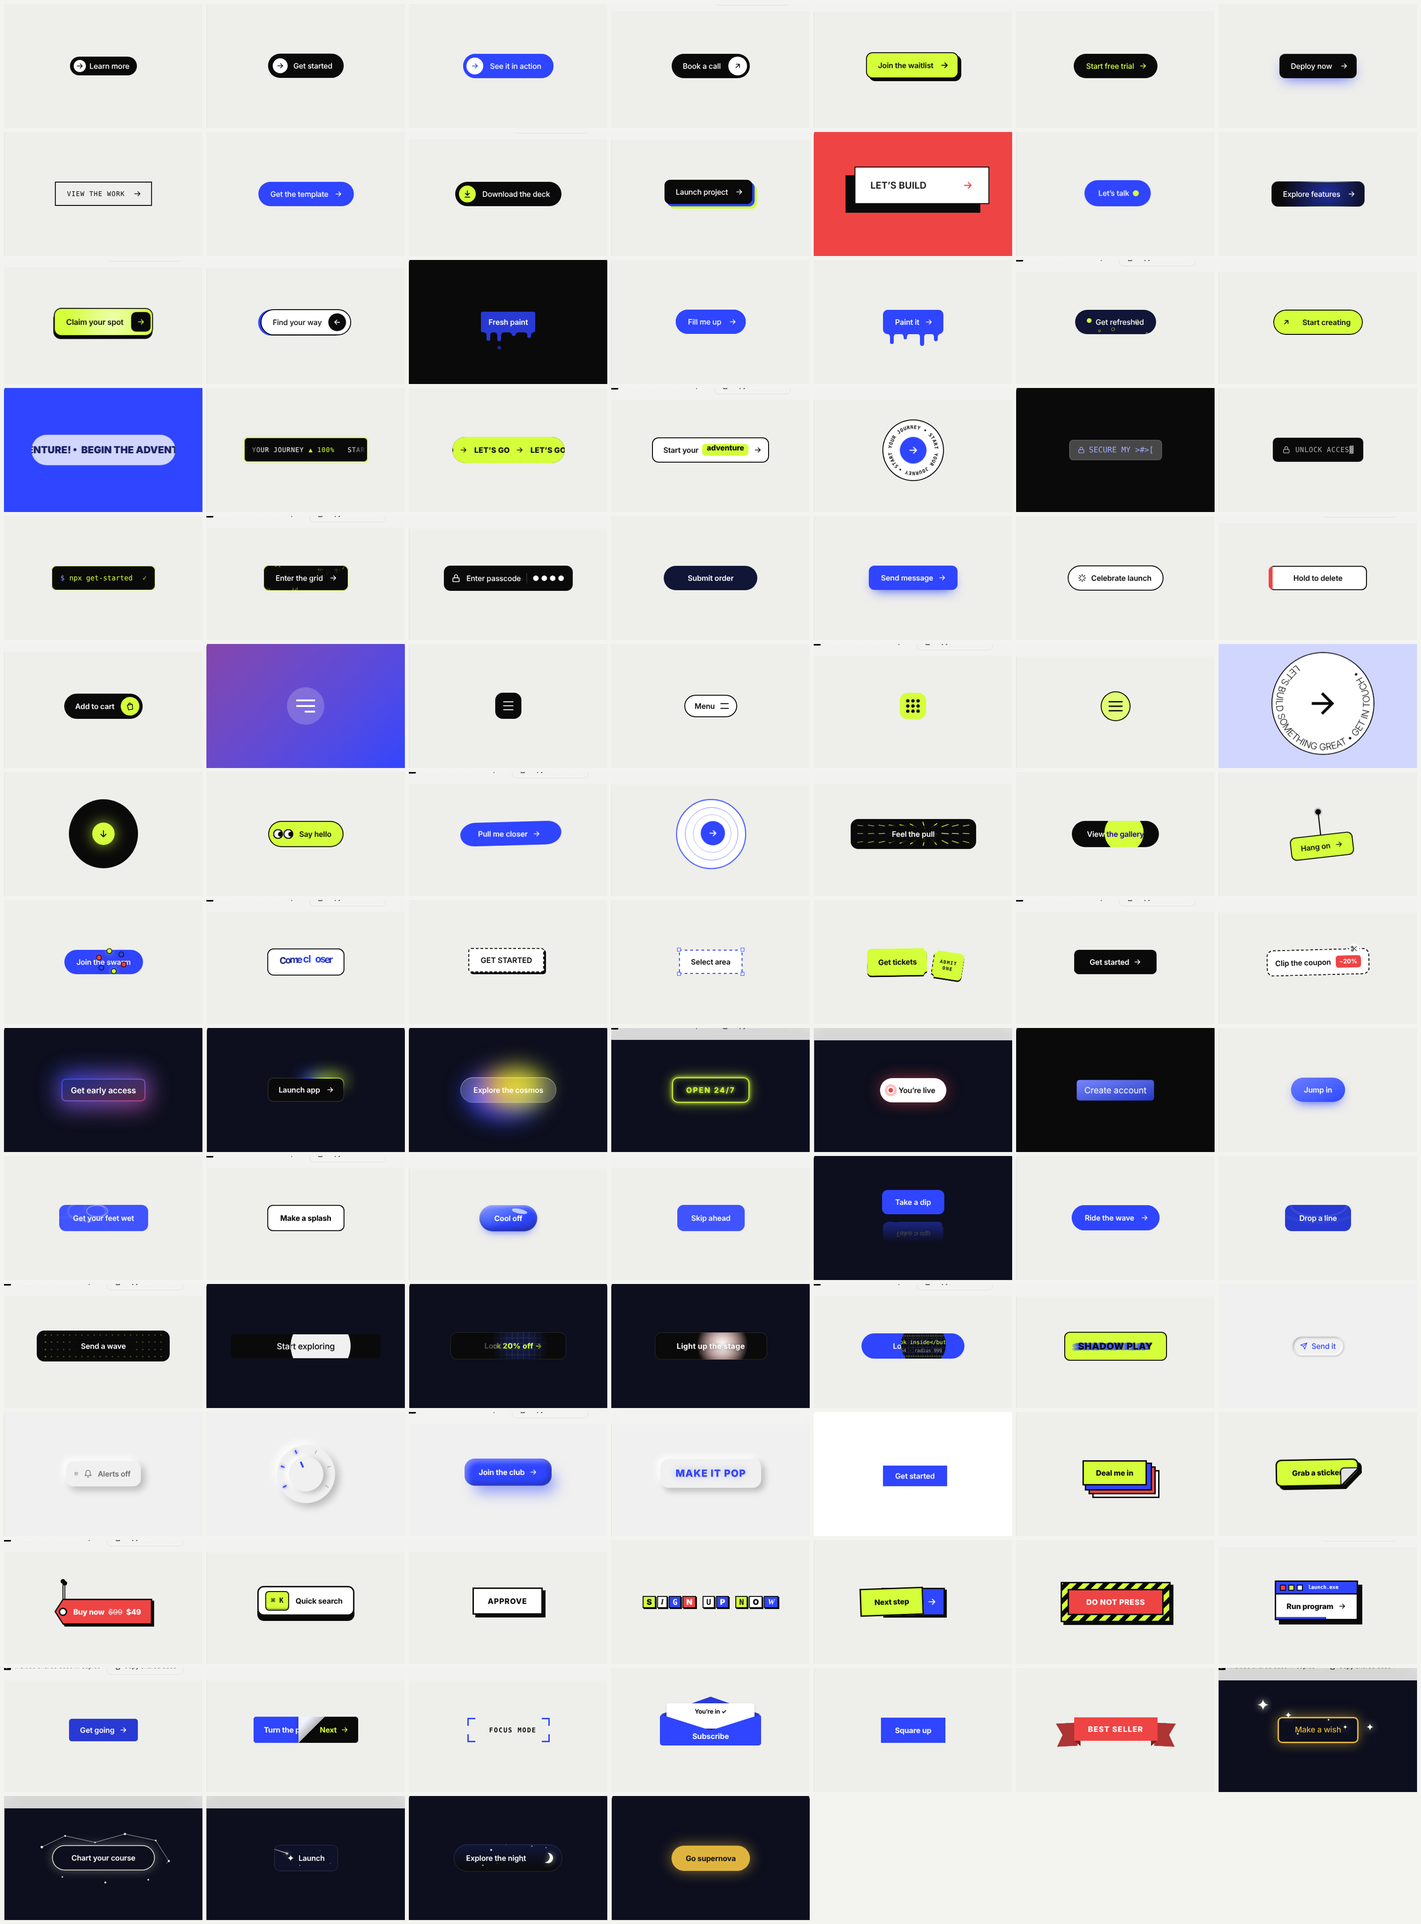
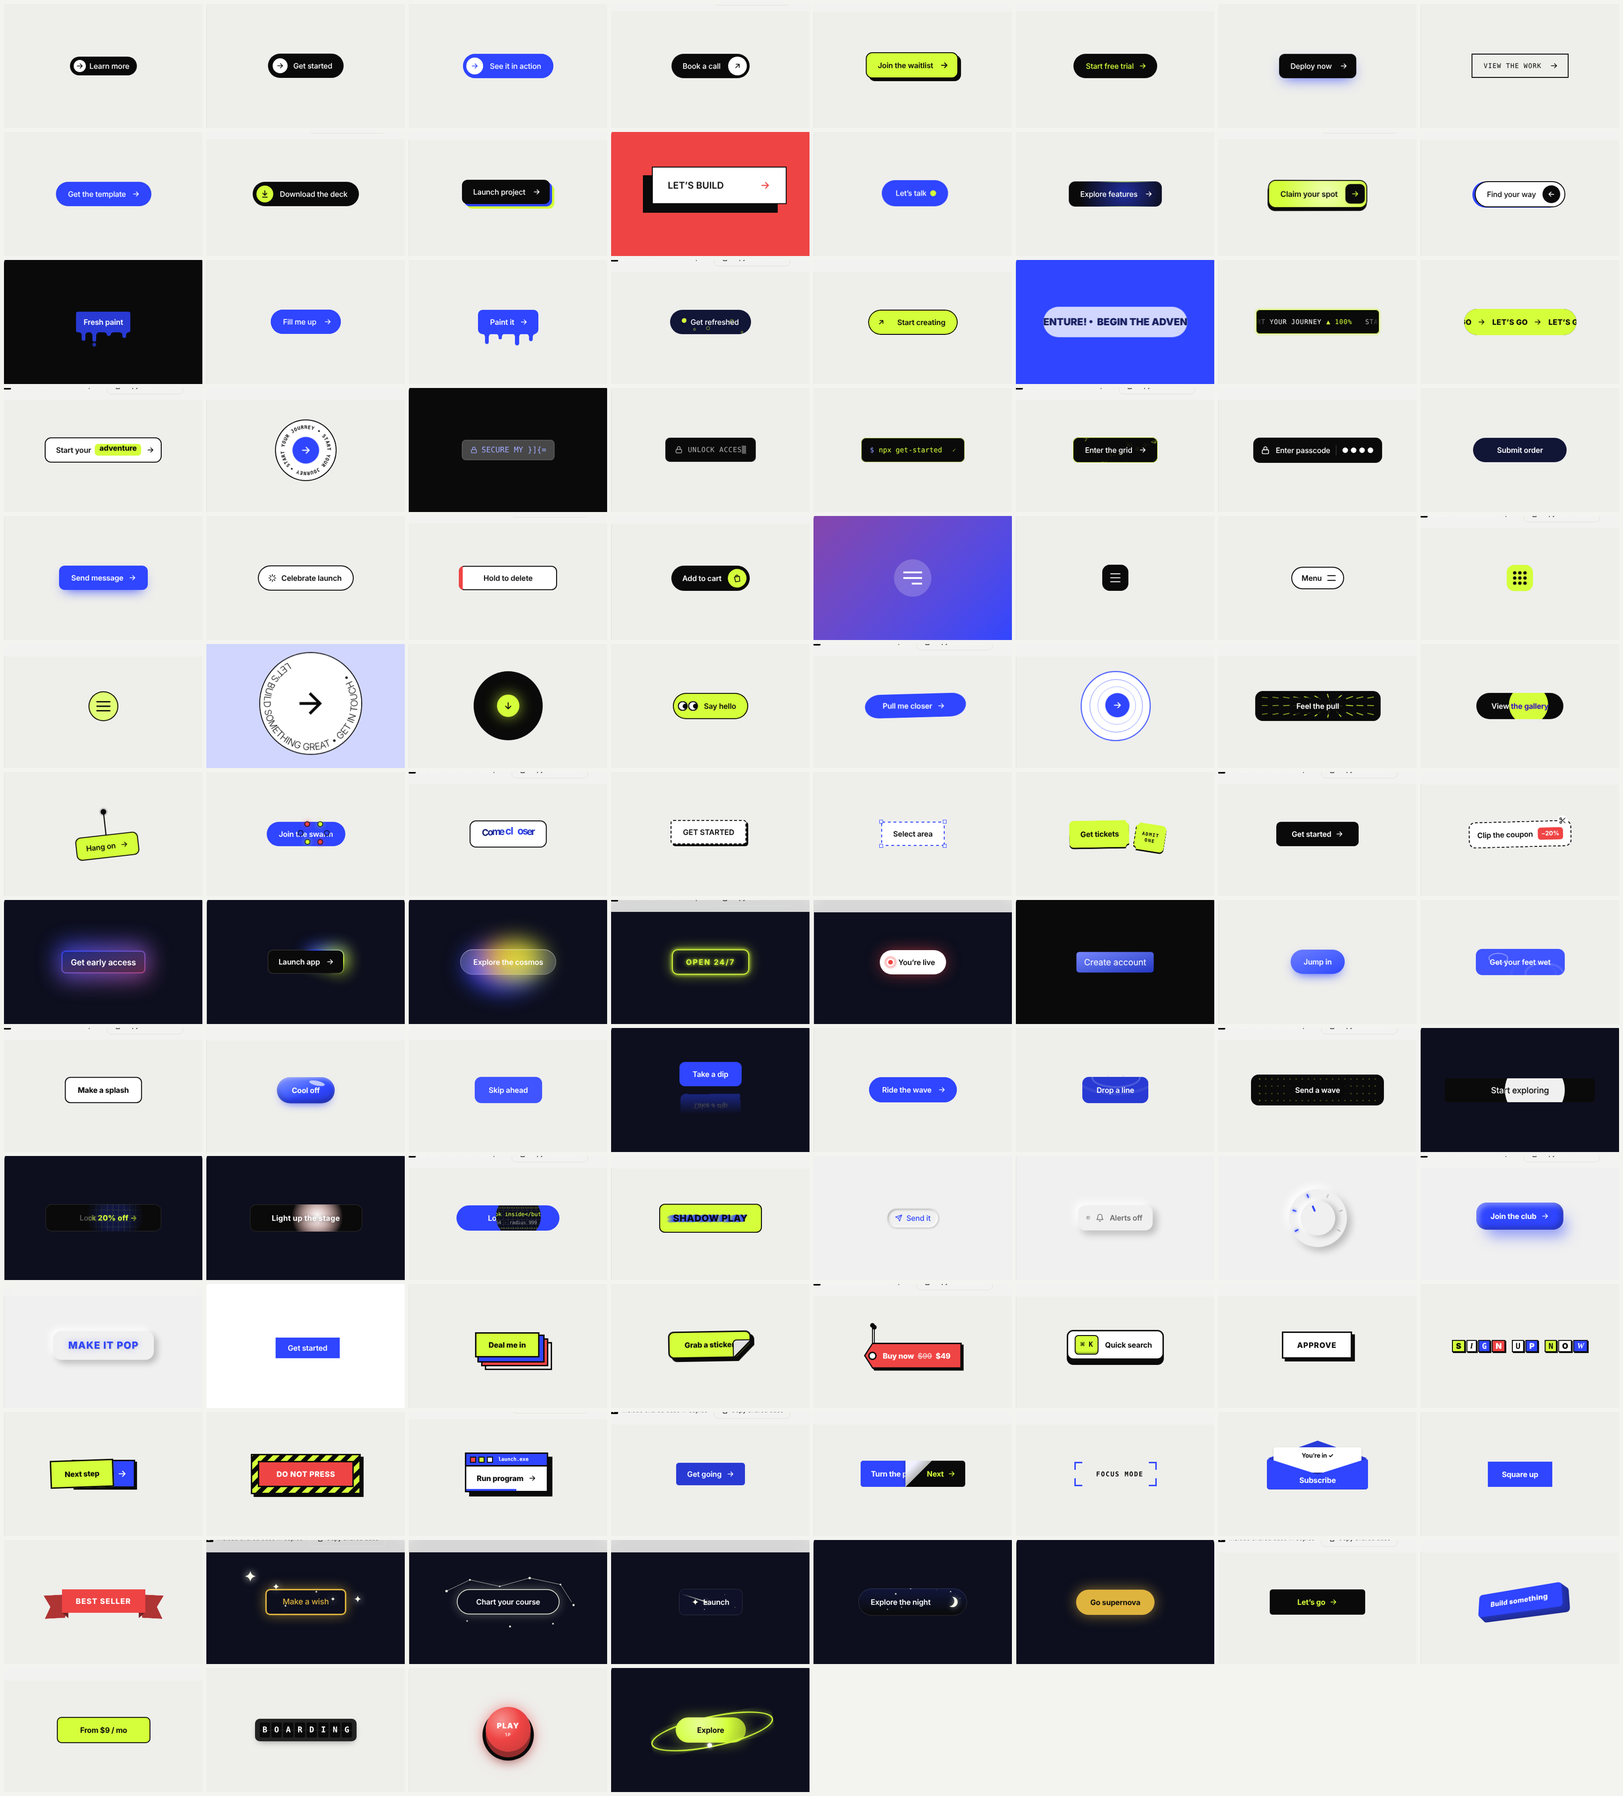
Add 3D section: six buttons with real depth
Cube Roll, Extruded Block, Card Flip, Departure Board, Arcade and
Ringed Planet. Also renames two inner class names that clashed with
the library page's own styles. The library is now 108 buttons in 17
sections; README and images updated to match.

Claude-Session: https://claude.ai/code/session_0119U1nsTLnGppz8JXkYkz5n

diff --git a/index.html b/index.html
@@ -228,7 +228,21 @@ const GROUPS = [
   { id:'brutal', title:'Neubrutalism', note:'Thick outlines, hard shadows and loud flat color: a stacked deck, a peeling sticker, a swinging price tag, a keycap, a rubber stamp, a ransom note and a button that begs you not to press it.' },
   { id:'fold', title:'Folds & Corners', note:'Paper-inspired buttons: dog-eared corners, a page that turns, a camera viewfinder, an envelope that opens, corners that fill in and a folded ribbon. Pure CSS.' },
   { id:'stars', title:'Stars & Sparkle', note:'Celestial buttons: stars that burst out on hover, a constellation that draws itself, shooting stars, a twinkling night sky and a click that goes supernova. Made for dark backgrounds.' },
+  { id:'3d', title:'3D', note:'Real depth with CSS 3D transforms: a rolling cube, an extruded block, a flipping card, a split-flap departure board, an arcade button and a ringed planet. Pure CSS.' },
 ];
+
+function boardHTML(from, to) {
+  const tiles = [...from].map((c, i) => {
+    const a = c === ' ' ? '&nbsp;' : c;
+    const b = to[i] === ' ' ? '&nbsp;' : to[i];
+    return `    <span class="tile" style="--d: ${i * 45}ms"><span class="cube"><span class="a">${a}</span><span class="b">${b}</span></span></span>`;
+  }).join('\n');
+  return `<button type="button" class="cta cta-board" aria-label="${from.charAt(0) + from.slice(1).toLowerCase()}">
+  <span class="row" aria-hidden="true">
+${tiles}
+  </span>
+</button>`;
+}
 
 const SPARKLE = `<svg viewBox="0 0 24 24" fill="currentColor" aria-hidden="true"><path d="M12 0C12.6 6.6 17.4 11.4 24 12C17.4 12.6 12.6 17.4 12 24C11.4 17.4 6.6 12.6 0 12C6.6 11.4 11.4 6.6 12 0Z"></path></svg>`;
 
@@ -981,7 +995,7 @@ function setupHold(el) {
 function setupCart(el) {
   const label = el.querySelector('.lbl');
   const bag = el.querySelector('.bag');
-  const count = el.querySelector('.count');
+  const count = el.querySelector('.qty');
   let n = 0;
   const land = () => {
     n++;
@@ -2228,14 +2242,14 @@ const BUTTONS = [
 .cta-cart .bag { position: relative; width: 40px; height: 40px; border-radius: 50%; background: var(--cta-pop); color: var(--cta-ink);
   display: grid; place-items: center; transition: transform .4s var(--spring); }
 .cta-cart .bag svg { width: 20px; height: 20px; }
-.cta-cart .count { position: absolute; top: -5px; right: -5px; min-width: 18px; height: 18px; padding: 0 4px; box-sizing: border-box;
+.cta-cart .qty { position: absolute; top: -5px; right: -5px; min-width: 18px; height: 18px; padding: 0 4px; box-sizing: border-box;
   border-radius: 999px; background: var(--cta-accent); color: var(--cta-paper); font-size: 11px; font-weight: 700; line-height: 18px; text-align: center;
   font-variant-numeric: tabular-nums; transform: scale(0); transition: transform .35s var(--spring); }
 .cta-cart:is(:hover, :focus-visible, .is-active) .bag { transform: rotate(-10deg); }
 .cta-cart:active { transform: scale(.97); }
-.cta-cart.has .count { transform: scale(1); }
+.cta-cart.has .qty { transform: scale(1); }
 .cta-cart.bump .bag { animation: cta-cart-bump .5s var(--spring); }
-.cta-cart.bump .count { animation: cta-cart-tick .4s var(--spring); }
+.cta-cart.bump .qty { animation: cta-cart-tick .4s var(--spring); }
 .cta-cart .fly { position: absolute; left: var(--sx); top: 50%; width: 12px; height: 12px; margin: -6px 0 0 -6px; pointer-events: none;
   animation: cta-cart-x .55s linear forwards; }
 .cta-cart .fly i { display: block; width: 100%; height: 100%; border-radius: 50%; background: var(--cta-pop); animation: cta-cart-y .55s forwards; }
@@ -2249,7 +2263,7 @@ const BUTTONS = [
 @keyframes cta-cart-tick { 40% { transform: scale(1.4); } }`,
   html:`<button type="button" class="cta cta-cart" aria-label="Add to cart">
   <span class="lbl" aria-hidden="true">Add to cart</span>
-  <span class="bag" aria-hidden="true">${BAG}<span class="count">0</span></span>
+  <span class="bag" aria-hidden="true">${BAG}<span class="qty">0</span></span>
 </button>`
 },
 
@@ -3473,6 +3487,109 @@ const BUTTONS = [
   100% { transform: translate(calc(-50% + var(--dx)), calc(-50% + var(--dy))) scale(1) rotate(var(--r)); opacity: 0; }
 }`,
   html:`<button type="button" class="cta cta-nova">Go supernova</button>`
+},
+
+/* ---------------- 3D family ---------------- */
+{
+  group:'3d', no:'102', name:'Cube Roll', cls:'cta-cube',
+  note:'The button is the front face of a cube. Hover rolls it forward to bring the top face, with the next step on it, into view.',
+  css:`.cta-cube { width: 204px; height: 54px; padding: 0; background: transparent; perspective: 600px; font-weight: 700; transition: transform .15s var(--out); }
+.cta-cube .cube { position: absolute; inset: 0; transform-style: preserve-3d; transform: translateZ(-27px) rotateX(0deg);
+  transition: transform .6s cubic-bezier(.3, 1.35, .5, 1); }
+.cta-cube .f { position: absolute; inset: 0; display: flex; align-items: center; justify-content: center; gap: 8px; border-radius: 6px; backface-visibility: hidden; }
+.cta-cube .front { background: var(--cta-accent); color: var(--cta-paper); transform: translateZ(27px); }
+.cta-cube .top { background: var(--cta-ink); color: var(--cta-pop); transform: rotateX(90deg) translateZ(27px); }
+.cta-cube .top svg { width: 18px; height: 18px; }
+.cta-cube:is(:hover, :focus-visible, .is-active) .cube { transform: translateZ(-27px) rotateX(-90deg); }
+.cta-cube:active { transform: scale(.96); }`,
+  html:`<button type="button" class="cta cta-cube" aria-label="Get started">
+  <span class="cube" aria-hidden="true"><span class="f front">Get started</span><span class="f top"><span>Let’s go</span>${ARROW}</span></span>
+</button>`
+},
+{
+  group:'3d', no:'103', name:'Extruded Block', cls:'cta-extrude',
+  note:'A thick block tilted in space. Hover lifts it and deepens the extrusion; pressing squashes it nearly flat.',
+  css:`.cta-extrude { height: 54px; padding: 0 30px; border-radius: 8px; background: var(--cta-accent); color: var(--cta-paper); font-weight: 800; letter-spacing: .02em;
+  transform: perspective(600px) rotateX(18deg) rotateY(-16deg);
+  box-shadow: 1px 1px 0 color-mix(in srgb, var(--cta-accent) 68%, var(--cta-ink)), 2px 2px 0 color-mix(in srgb, var(--cta-accent) 66%, var(--cta-ink)), 3px 3px 0 color-mix(in srgb, var(--cta-accent) 64%, var(--cta-ink)), 4px 4px 0 color-mix(in srgb, var(--cta-accent) 62%, var(--cta-ink)), 5px 5px 0 color-mix(in srgb, var(--cta-accent) 60%, var(--cta-ink)), 6px 6px 0 color-mix(in srgb, var(--cta-accent) 58%, var(--cta-ink)), 7px 7px 0 color-mix(in srgb, var(--cta-accent) 56%, var(--cta-ink)), 8px 8px 0 color-mix(in srgb, var(--cta-accent) 54%, var(--cta-ink)), 9px 9px 0 color-mix(in srgb, var(--cta-accent) 52%, var(--cta-ink)), 10px 10px 0 color-mix(in srgb, var(--cta-accent) 50%, var(--cta-ink));
+  transition: transform .35s var(--spring), box-shadow .35s var(--out); }
+.cta-extrude:is(:hover, :focus-visible, .is-active) { transform: perspective(600px) rotateX(22deg) rotateY(-22deg) translate(-4px, -4px);
+  box-shadow: 1px 1px 0 color-mix(in srgb, var(--cta-accent) 69%, var(--cta-ink)), 2px 2px 0 color-mix(in srgb, var(--cta-accent) 68%, var(--cta-ink)), 3px 3px 0 color-mix(in srgb, var(--cta-accent) 67%, var(--cta-ink)), 4px 4px 0 color-mix(in srgb, var(--cta-accent) 66%, var(--cta-ink)), 5px 5px 0 color-mix(in srgb, var(--cta-accent) 65%, var(--cta-ink)), 6px 6px 0 color-mix(in srgb, var(--cta-accent) 64%, var(--cta-ink)), 7px 7px 0 color-mix(in srgb, var(--cta-accent) 63%, var(--cta-ink)), 8px 8px 0 color-mix(in srgb, var(--cta-accent) 62%, var(--cta-ink)), 9px 9px 0 color-mix(in srgb, var(--cta-accent) 61%, var(--cta-ink)), 10px 10px 0 color-mix(in srgb, var(--cta-accent) 60%, var(--cta-ink)), 11px 11px 0 color-mix(in srgb, var(--cta-accent) 59%, var(--cta-ink)), 12px 12px 0 color-mix(in srgb, var(--cta-accent) 58%, var(--cta-ink)), 13px 13px 0 color-mix(in srgb, var(--cta-accent) 57%, var(--cta-ink)), 14px 14px 0 color-mix(in srgb, var(--cta-accent) 56%, var(--cta-ink)); }
+.cta-extrude:active { transform: perspective(600px) rotateX(18deg) rotateY(-16deg) translate(8px, 8px); transition-duration: .1s;
+  box-shadow: 1px 1px 0 color-mix(in srgb, var(--cta-accent) 66%, var(--cta-ink)), 2px 2px 0 color-mix(in srgb, var(--cta-accent) 62%, var(--cta-ink)); }`,
+  html:`<button type="button" class="cta cta-extrude">Build something</button>`
+},
+{
+  group:'3d', no:'104', name:'Card Flip', cls:'cta-flip',
+  note:'A two-sided card. Hover flips it over in 3D to show what’s printed on the back.',
+  css:`.cta-flip { width: 200px; height: 56px; padding: 0; background: transparent; perspective: 700px; font-weight: 700; transition: transform .15s var(--out); }
+.cta-flip .flipper { position: absolute; inset: 0; }
+.cta-flip .side { position: absolute; inset: 0; display: flex; align-items: center; justify-content: center; border-radius: 10px; border: 2px solid var(--cta-ink); }
+.cta-flip .a { background: var(--cta-paper); color: var(--cta-ink); transform: rotateY(0deg); transition: transform .28s ease-out .3s; }
+.cta-flip .b { background: var(--cta-pop); color: var(--cta-ink); transform: rotateY(-90deg); transition: transform .28s ease-in; }
+.cta-flip:is(:hover, :focus-visible, .is-active) .a { transform: rotateY(90deg); transition: transform .28s ease-in; }
+.cta-flip:is(:hover, :focus-visible, .is-active) .b { transform: rotateY(0deg); transition: transform .45s cubic-bezier(.3, 1.4, .5, 1) .28s; }
+.cta-flip:active { transform: scale(.96); }`,
+  html:`<button type="button" class="cta cta-flip" aria-label="See pricing, from $9 a month">
+  <span class="flipper" aria-hidden="true"><span class="side a">See pricing</span><span class="side b">From $9 / mo</span></span>
+</button>`
+},
+{
+  group:'3d', no:'105', name:'Departure Board', cls:'cta-board',
+  note:'A split-flap departure board. Hover flips every tile in sequence, changing BOOK NOW to BOARDING.',
+  css:`.cta-board { padding: 8px 10px; border-radius: 10px; background: color-mix(in srgb, var(--cta-ink) 90%, var(--cta-paper)); transition: transform .15s var(--out);
+  box-shadow: 0 6px 16px -8px color-mix(in srgb, var(--cta-ink) 60%, transparent); }
+.cta-board .row { display: flex; gap: 3px; }
+.cta-board .tile { position: relative; width: 22px; height: 32px; perspective: 160px; }
+.cta-board .cube { position: absolute; inset: 0; transform-style: preserve-3d; transform: translateZ(-16px); transition: transform .5s cubic-bezier(.4, 1.4, .6, 1) var(--d); }
+.cta-board .a, .cta-board .b { position: absolute; inset: 0; display: grid; place-items: center; border-radius: 3px; backface-visibility: hidden;
+  background: var(--cta-ink); color: var(--cta-pop); font-family: ui-monospace, 'SF Mono', Menlo, monospace; font-size: 17px; font-weight: 700; }
+.cta-board .a::after, .cta-board .b::after { content: ""; position: absolute; left: 0; right: 0; top: 50%; height: 1px; background: color-mix(in srgb, var(--cta-paper) 14%, transparent); }
+.cta-board .a { transform: translateZ(16px); }
+.cta-board .b { transform: rotateX(-90deg) translateZ(16px); color: var(--cta-paper); }
+.cta-board:is(:hover, :focus-visible, .is-active) .cube { transform: translateZ(-16px) rotateX(90deg); }
+.cta-board:active { transform: scale(.97); }`,
+  html: boardHTML('BOOK NOW', 'BOARDING')
+},
+{
+  group:'3d', no:'106', name:'Arcade', cls:'cta-arcade',
+  note:'A chunky arcade button sitting in its bezel. Hover makes it glow; pressing drives it deep into the cabinet.',
+  css:`.cta-arcade { width: 96px; height: 96px; padding: 0; flex-direction: column; justify-content: center; border-radius: 50%; color: var(--cta-paper);
+  background: radial-gradient(circle at 35% 30%, color-mix(in srgb, var(--cta-hot) 60%, var(--cta-paper)), var(--cta-hot) 45%, color-mix(in srgb, var(--cta-hot) 80%, var(--cta-ink)));
+  box-shadow: 0 10px 0 color-mix(in srgb, var(--cta-hot) 60%, var(--cta-ink)), 0 10px 0 7px var(--cta-ink), 0 22px 22px -6px color-mix(in srgb, var(--cta-ink) 45%, transparent);
+  font-weight: 900; letter-spacing: .08em; transition: transform .1s var(--out), box-shadow .1s var(--out), filter .3s var(--out); }
+.cta-arcade small { font-size: 10px; font-weight: 700; opacity: .8; }
+.cta-arcade:is(:hover, :focus-visible, .is-active) { transform: translateY(-2px); filter: drop-shadow(0 0 14px color-mix(in srgb, var(--cta-hot) 55%, transparent));
+  box-shadow: 0 12px 0 color-mix(in srgb, var(--cta-hot) 60%, var(--cta-ink)), 0 12px 0 7px var(--cta-ink), 0 24px 24px -6px color-mix(in srgb, var(--cta-ink) 45%, transparent); }
+.cta-arcade:active { transform: translateY(8px);
+  box-shadow: 0 2px 0 color-mix(in srgb, var(--cta-hot) 60%, var(--cta-ink)), 0 2px 0 7px var(--cta-ink), 0 6px 8px -4px color-mix(in srgb, var(--cta-ink) 45%, transparent); }`,
+  html:`<button type="button" class="cta cta-arcade"><span>PLAY</span><small>1P</small></button>`
+},
+{
+  group:'3d', no:'107', name:'Ringed Planet', cls:'cta-saturn', stage:'color-mix(in srgb, var(--cta-ink) 92%, var(--cta-accent))',
+  note:'The button is a planet wrapped in a tilted ring, with a moon that orbits in front of it and then disappears behind. Hover lights up the ring.',
+  css:`.cta-saturn-wrap { position: relative; display: inline-block; padding: 40px 60px; margin: -40px -60px; isolation: isolate; }
+.cta-saturn-wrap .ring { position: absolute; left: 50%; top: 50%; width: 260px; height: 60px; margin: -30px 0 0 -130px; border-radius: 50%; pointer-events: none;
+  border: 3px solid color-mix(in srgb, var(--cta-pop) 70%, transparent); transform: rotate(-12deg); transition: border-color .4s var(--out), filter .4s var(--out); }
+.cta-saturn-wrap .ring.back { z-index: 1; clip-path: inset(0 0 50% 0); }
+.cta-saturn-wrap .ring.front { z-index: 3; clip-path: inset(50% 0 0 0); }
+.cta-saturn { z-index: 2; width: 150px; height: 54px; padding: 0; justify-content: center; border-radius: 999px; color: var(--cta-ink); font-weight: 700;
+  background: radial-gradient(circle at 35% 25%, color-mix(in srgb, var(--cta-pop) 55%, var(--cta-paper)), var(--cta-pop) 55%, color-mix(in srgb, var(--cta-pop) 70%, var(--cta-ink)));
+  transition: transform .15s var(--out), box-shadow .4s var(--out); }
+.cta-saturn-wrap .moon { position: absolute; left: 0; top: 0; width: 10px; height: 10px; border-radius: 50%; background: var(--cta-paper); pointer-events: none;
+  box-shadow: 0 0 8px var(--cta-paper);
+  offset-path: path('M 8 94 A 130 30 -12 1 0 262 40 A 130 30 -12 1 0 8 94'); offset-rotate: 0deg;
+  animation: cta-saturn-orbit 7s linear infinite; }
+.cta-saturn:is(:hover, :focus-visible, .is-active) { box-shadow: 0 0 30px color-mix(in srgb, var(--cta-pop) 45%, transparent); }
+.cta-saturn:is(:hover, :focus-visible, .is-active) ~ .ring { border-color: var(--cta-pop); filter: drop-shadow(0 0 6px var(--cta-pop)); }
+.cta-saturn:active { transform: scale(.96); }
+@keyframes cta-saturn-orbit { 0% { offset-distance: 0%; z-index: 3; } 50% { z-index: 3; } 50.1% { z-index: 1; } 100% { offset-distance: 100%; z-index: 1; } }`,
+  html:`<span class="cta-saturn-wrap">
+  <button type="button" class="cta cta-saturn">Explore</button>
+  <span class="ring back" aria-hidden="true"></span>
+  <span class="ring front" aria-hidden="true"></span>
+  <span class="moon" aria-hidden="true"></span>
+</span>`
 },
 
 /* ---------------- Folds & Corners family ---------------- */

diff --git a/README.md b/README.md
@@ -1,6 +1,6 @@
 # The Lab
 
-**102 animated call-to-action buttons. Preview them live, recolor all of them at once, and copy any one as HTML + CSS or a React component.**
+**108 animated call-to-action buttons. Preview them live, recolor all of them at once, and copy any one as HTML + CSS or a React component.**
 
 ![The Lab: the button library with its color bar](docs/preview.png)
 
@@ -8,7 +8,7 @@ The Lab is a single-page library of interactive buttons, from quiet hover states
 
 ## Highlights
 
-- **102 buttons in 16 sections**, each with a short description of what it does
+- **108 buttons in 17 sections**, each with a short description of what it does
 - **Live palette:** five color variables (Ink, Paper, Accent, Pop, Signal) plus a preview background, all editable with color pickers
 - **Randomizer with locks:** generate a matching palette in one click, and lock any color you want to keep
 - **Presets:** Default, Midnight, Sunset, Forest and Mono
@@ -38,8 +38,9 @@ The Lab is a single-page library of interactive buttons, from quiet hover states
 | Neubrutalism | 10 | Hard shadows and loud color: a stacked deck, a peeling sticker, a swinging price tag, a keycap, a rubber stamp, a ransom note and more |
 | Folds & Corners | 6 | Dog-eared corners, a page curl, a viewfinder, an envelope, filling corners and a folded ribbon |
 | Stars & Sparkle | 5 | Bursting stars, a self-drawing constellation, shooting stars, a twinkling night sky and a supernova click |
+| 3D | 6 | A rolling cube, an extruded block, a flipping card, a split-flap departure board, an arcade button and a ringed planet |
 
-![All 102 buttons in their hover states](docs/gallery.png)
+![All 108 buttons in their hover states](docs/gallery.png)
 
 ## Run it
 
